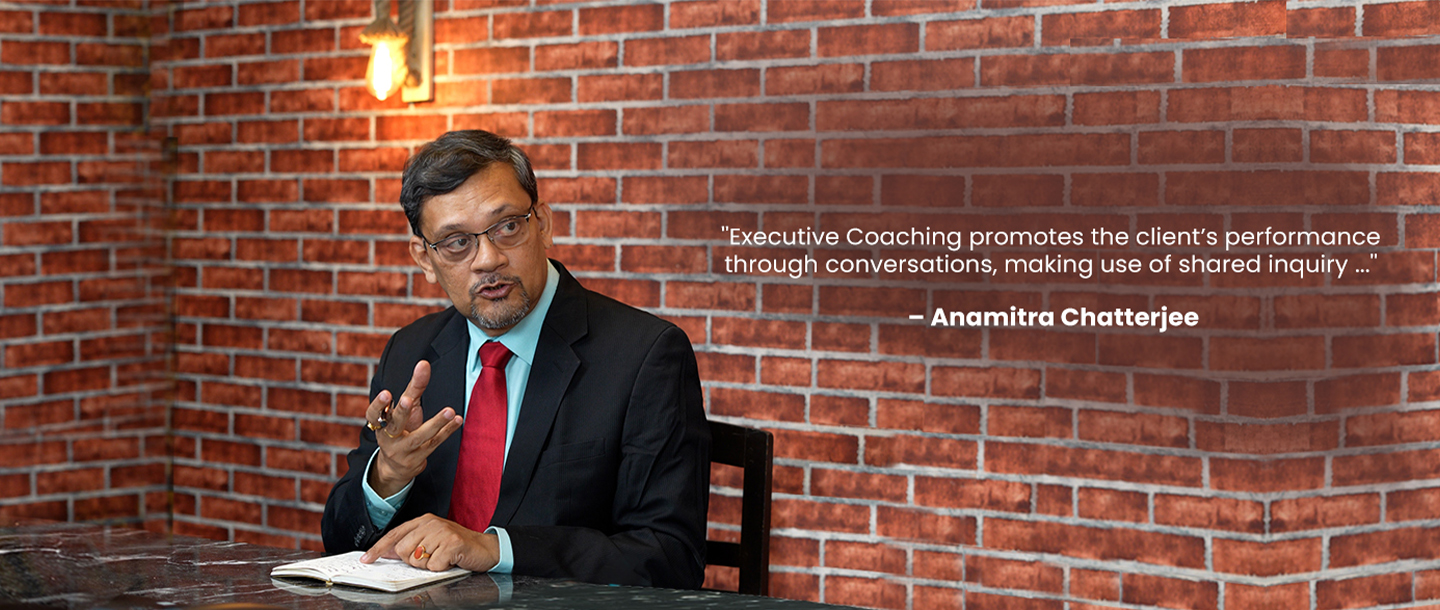
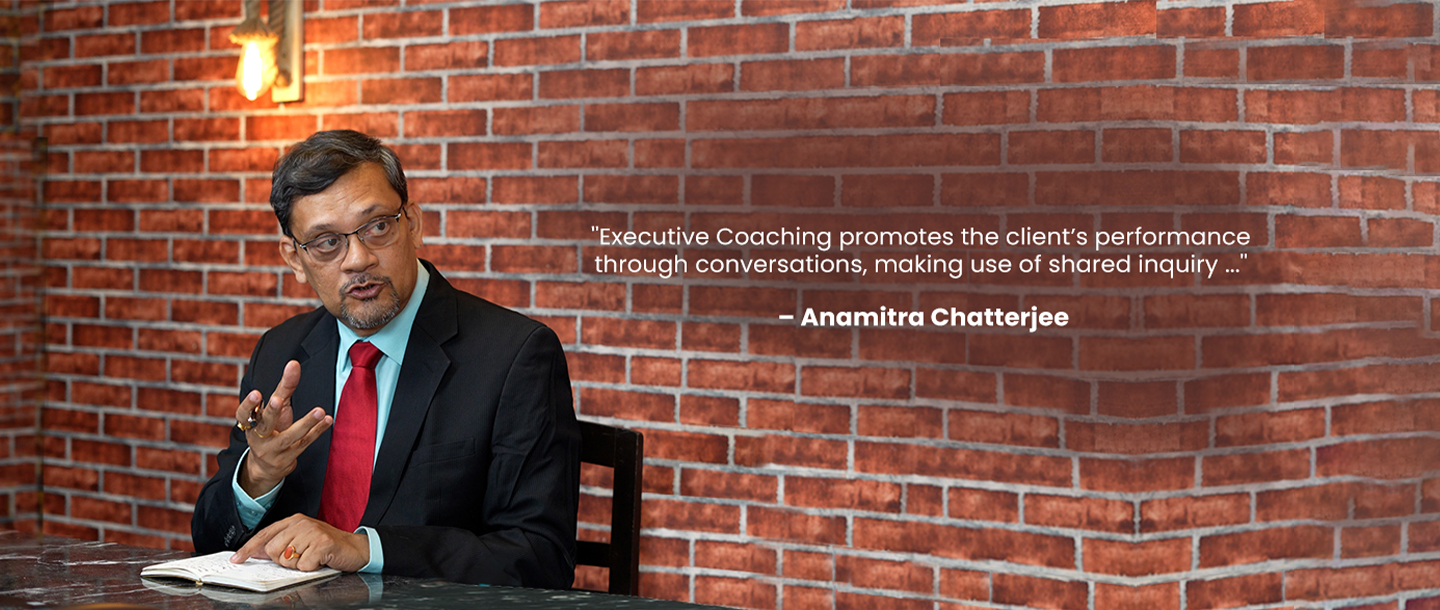
updated

diff --git a/index.html b/index.html
@@ -61,7 +61,7 @@
         <div class="owl-carousel owl-theme" id="slider">
 			 <!-- <div class="item"><img src="assets/img/slider-Jan24-new.jpg" alt="" /></div>-->			
         	<div class="item"><img src="assets/img/banner-home2.jpg" alt="" /></div>
-			<div class="item"><img src="assets/img/banner.jpg" alt="" /></div>
+		    <div class="item"><img src="assets/img/banner.jpg" alt="" /></div>
 			<div class="item"><img src="assets/img/slider-myself.jpg" alt="" /></div>			
             <div class="item"><img src="assets/img/client-testimonial-ban.jpg" alt="" /></div>
 			<div class="item"><img src="assets/img/slider-coaching-banner.jpg" alt="" /></div>

diff --git a/publications.html b/publications.html
@@ -81,7 +81,7 @@
       <div class="container">
         <div class="row">
           <div class="col-lg-5">
-            <div class="quote">
+            <!--<div class="quote">
               <p>
                 “I slept and dreamt that life was joy. <br>
  I awoke and saw that life was service.<br> 
@@ -90,7 +90,7 @@
 
                 <b>– Rabindranath Tagore</b>
               </p>
-            </div>
+            </div>-->
           </div>
           <div class="col-lg-4">
             <div class="img-ban">

diff --git a/assets/css/main.css b/assets/css/main.css
@@ -701,7 +701,7 @@ section.anamitra-body-content {
 .coaching-banner-wrap {
 	overflow: hidden;
 	background: url("../img/coaching-banner.jpg") no-repeat center;
-	height: 609px;
+	/*height: 609px;*/
 	background-size: cover;
 	
 	
@@ -714,7 +714,7 @@ section.anamitra-body-content {
 }
 
 .publication-banner-wrap{
-	background: url("../img/publications-ban-img.jpg") no-repeat center;
+	background: url("../img/publications-ban-img.png") no-repeat center;
 	height: 609px;
 	background-size: cover;
 	
